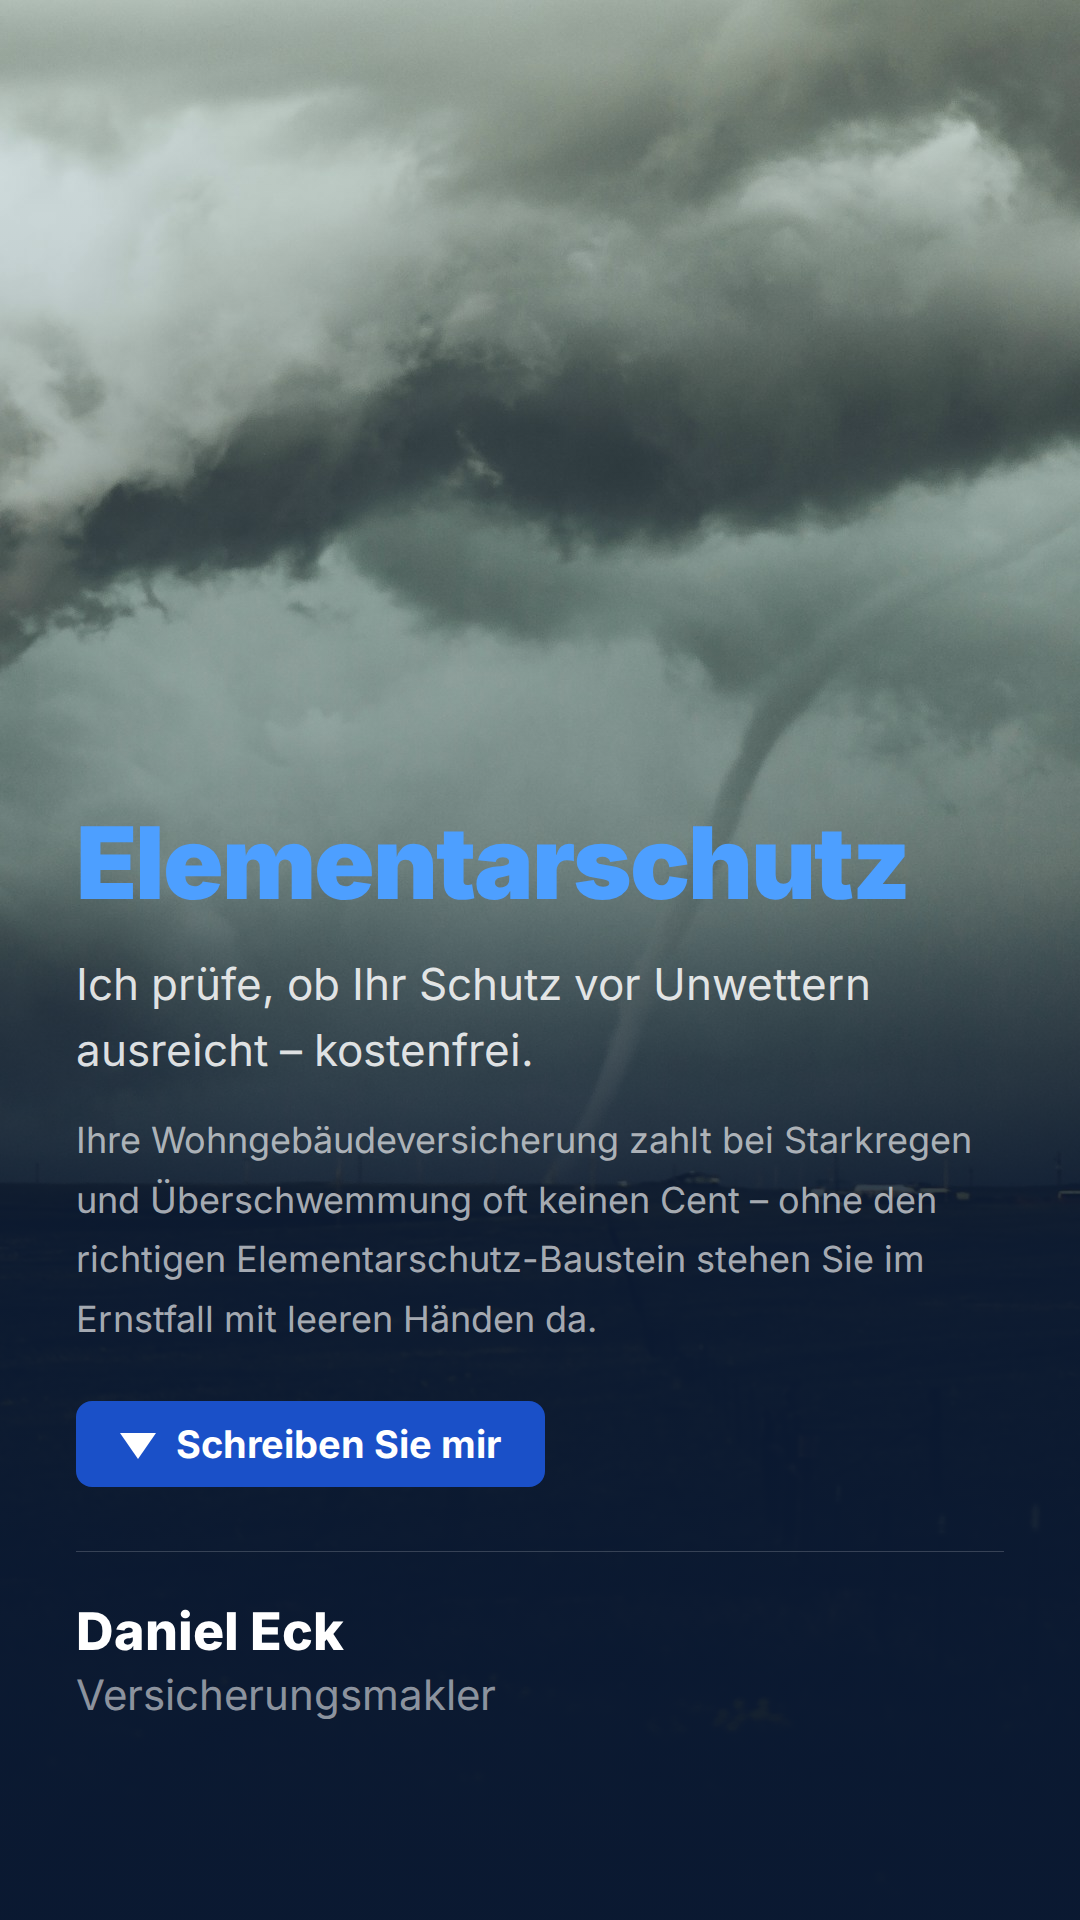
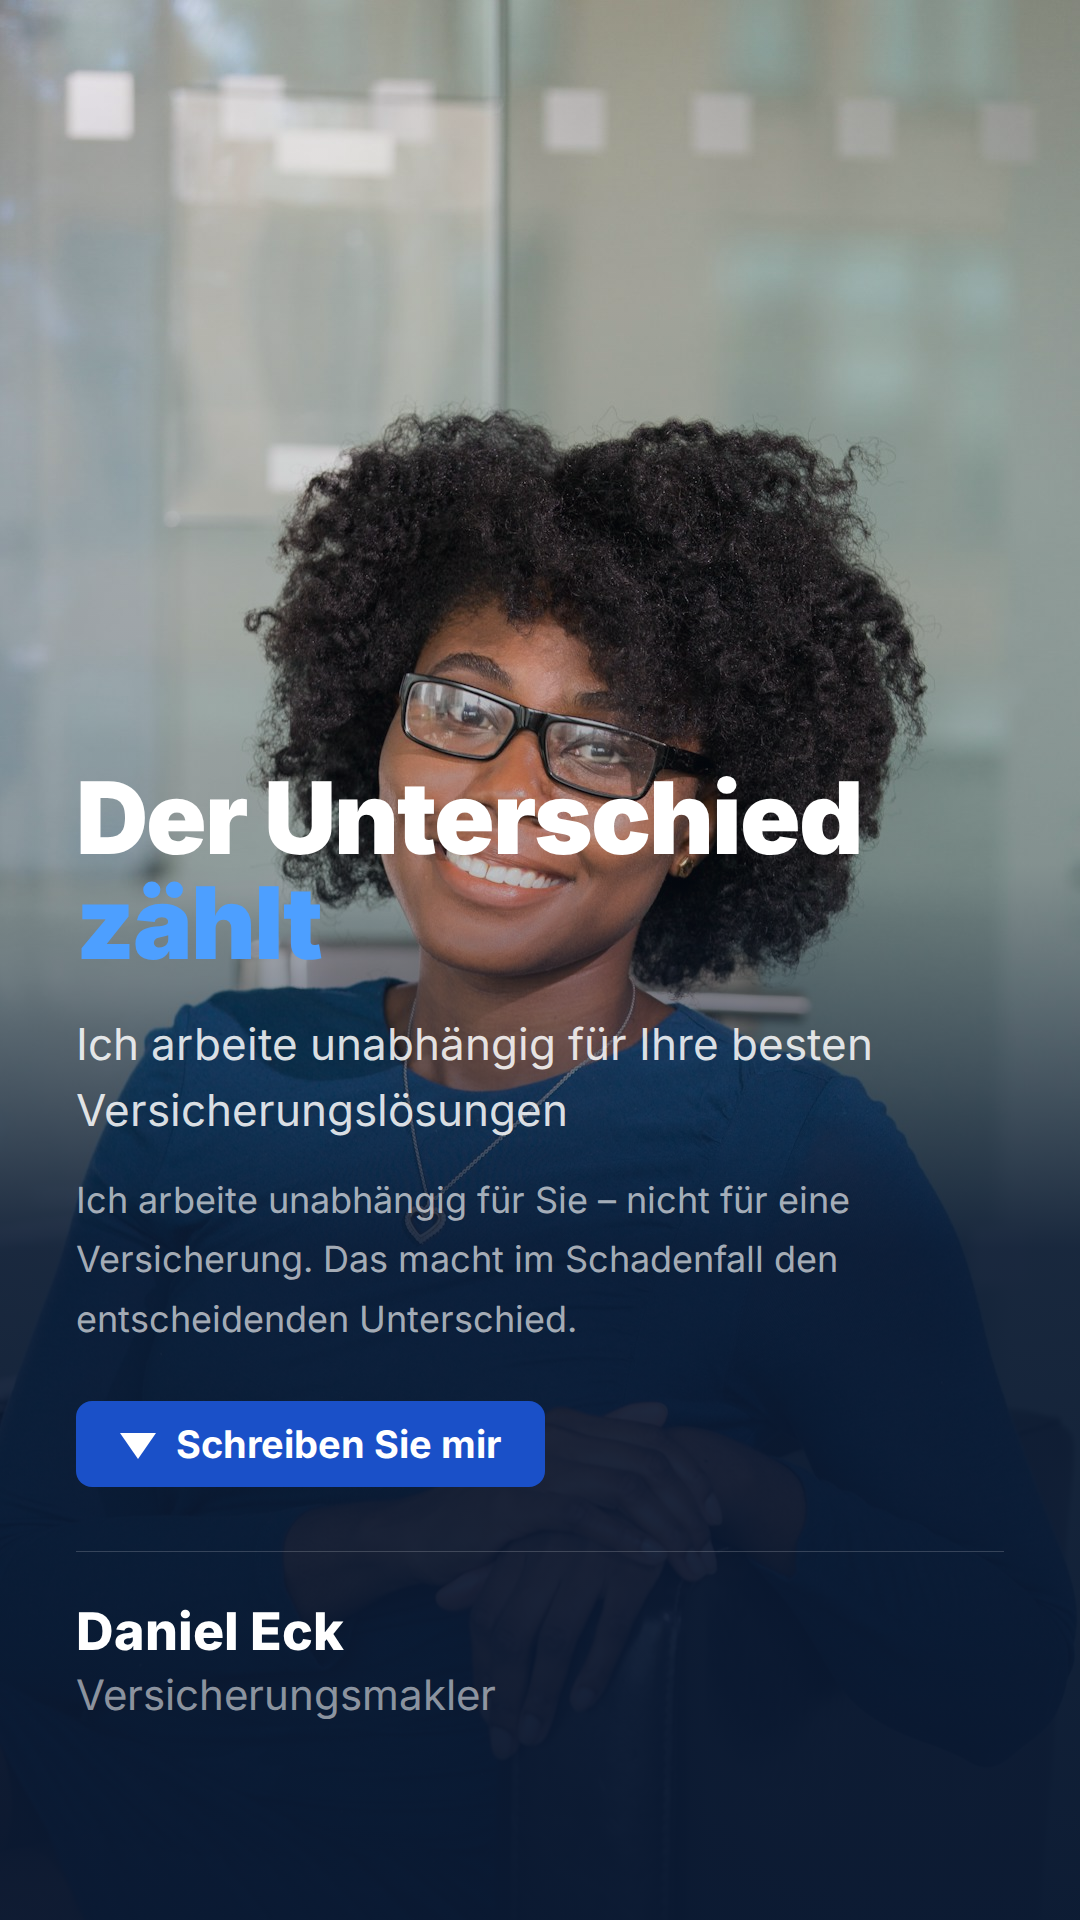
Blog-Entwurf: Unabhängiger Makler vs. Ausschließlichkeitsvertreter

diff --git a/blog/posts/2026-05-27-unabhängiger-makler-vs-ausschließlichkeitsvertreter.html b/blog/posts/2026-05-27-unabhängiger-makler-vs-ausschließlichkeitsvertreter.html
@@ -1,0 +1,347 @@
+<!DOCTYPE html>
+<html lang="de">
+<head>
+  <meta charset="UTF-8" />
+  <meta name="viewport" content="width=device-width, initial-scale=1.0" />
+  <title>Unabhängiger Makler vs. Ausschließlichkeitsvertreter – Daniel Eck – Versicherungsmakler</title>
+  <meta name="description" content="Unabhängiger Makler vs. Ausschließlichkeitsvertreter – Tipps und Informationen von Ihrem unabhängigen Versicherungsmakler Daniel Eck aus Schmalkalden." />
+  <meta property="og:title" content="Unabhängiger Makler vs. Ausschließlichkeitsvertreter" />
+  <meta property="og:description" content="Unabhängiger Makler vs. Ausschließlichkeitsvertreter – Tipps von Versicherungsmakler Daniel Eck aus Schmalkalden." />
+  <meta property="og:type" content="article" />
+  <meta property="og:url" content="https://kneipenterroristecky-cmd.github.io/Webseite_Eckversicherung/blog/posts/2026-05-27-unabhängiger-makler-vs-ausschließlichkeitsvertreter.html" />
+  <meta property="og:image" content="https://images.unsplash.com/photo-1573497161161-c3e73707e25c?w=1200&h=630&fit=crop&auto=format" />
+  <meta property="og:image:width" content="1200" />
+  <meta property="og:image:height" content="630" />
+  <meta property="og:site_name" content="Daniel Eck – Versicherungsmakler" />
+  <link rel="icon" type="image/svg+xml" href="../../favicon.svg" />
+  <link rel="stylesheet" href="../../style.css?v=5" />
+  <link rel="preconnect" href="https://fonts.googleapis.com" />
+  <link rel="preconnect" href="https://fonts.gstatic.com" crossorigin />
+  <link href="https://fonts.googleapis.com/css2?family=Inter:ital,wght@0,300;0,400;0,500;0,600;0,700;0,800;0,900;1,400&display=swap" rel="stylesheet" />
+  <link rel="stylesheet" href="https://cdnjs.cloudflare.com/ajax/libs/font-awesome/6.5.1/css/all.min.css" />
+  <style>
+    .page-hero {
+      background: var(--navy);
+      padding: 72px 0 64px;
+      text-align: center;
+      position: relative;
+      overflow: hidden;
+    }
+    .page-hero::before {
+      content: '';
+      position: absolute;
+      inset: 0;
+      background: linear-gradient(135deg, rgba(26,80,200,.25) 0%, transparent 60%);
+      pointer-events: none;
+    }
+    .page-hero-container {
+      max-width: 760px;
+      margin: 0 auto;
+      padding: 0 28px;
+      position: relative;
+      z-index: 1;
+    }
+    .page-hero-label {
+      display: inline-block;
+      font-size: 11px;
+      font-weight: 700;
+      letter-spacing: .12em;
+      text-transform: uppercase;
+      color: var(--blue-lt);
+      margin-bottom: 16px;
+    }
+    .page-hero-title {
+      font-size: clamp(24px, 5vw, 40px);
+      font-weight: 900;
+      color: #fff;
+      line-height: 1.2;
+      margin-bottom: 16px;
+      hyphens: auto;
+      overflow-wrap: break-word;
+    }
+    .page-hero-meta {
+      font-size: 14px;
+      color: rgba(255,255,255,.55);
+    }
+    .blog-content {
+      max-width: 740px;
+      margin: 0 auto;
+      padding: 56px 28px 80px;
+    }
+    .blog-content h2 {
+      font-size: 22px;
+      font-weight: 800;
+      color: var(--navy);
+      margin: 40px 0 12px;
+      line-height: 1.3;
+    }
+    .blog-content p {
+      font-size: 16px;
+      line-height: 1.8;
+      color: #374151;
+      margin-bottom: 18px;
+    }
+    .blog-content ul {
+      margin: 0 0 20px 0;
+      padding-left: 0;
+      list-style: none;
+    }
+    .blog-content ul li {
+      font-size: 16px;
+      line-height: 1.7;
+      color: #374151;
+      padding: 6px 0 6px 28px;
+      position: relative;
+    }
+    .blog-content ul li::before {
+      content: '';
+      position: absolute;
+      left: 0;
+      top: 14px;
+      width: 8px;
+      height: 8px;
+      border-radius: 50%;
+      background: var(--blue);
+    }
+    .blog-author-box {
+      display: flex;
+      align-items: center;
+      gap: 20px;
+      background: #f8faff;
+      border: 1px solid #e2e8f0;
+      border-radius: 16px;
+      padding: 24px 28px;
+      margin-top: 56px;
+    }
+    .blog-author-img {
+      width: 72px;
+      height: 72px;
+      border-radius: 50%;
+      object-fit: cover;
+      object-position: top;
+      flex-shrink: 0;
+    }
+    .blog-author-name {
+      font-weight: 800;
+      color: var(--navy);
+      font-size: 16px;
+      margin-bottom: 14px;
+    }
+    .blog-author-role {
+      font-size: 13px;
+      color: #64748b;
+      margin-bottom: 6px;
+    }
+    .blog-author-links {
+      display: flex;
+      gap: 16px;
+      flex-wrap: wrap;
+    }
+    .blog-author-links a {
+      font-size: 13px;
+      color: var(--blue);
+      font-weight: 600;
+      text-decoration: none;
+      display: inline-flex;
+      align-items: center;
+      gap: 6px;
+    }
+    .blog-back {
+      display: inline-flex;
+      align-items: center;
+      gap: 8px;
+      font-size: 14px;
+      font-weight: 600;
+      color: var(--blue);
+      text-decoration: none;
+      margin-bottom: 40px;
+    }
+    .blog-back:hover { opacity: .75; }
+    .blog-hero-img {
+      width: 100%;
+      max-height: 420px;
+      object-fit: cover;
+      border-radius: 12px;
+      margin-bottom: 36px;
+      display: block;
+    }
+    @media (max-width: 600px) {
+      .blog-author-box { flex-direction: column; text-align: center; padding: 20px 16px; }
+      .blog-author-links { flex-direction: column; align-items: center; gap: 10px; }
+      .blog-author-links a { justify-content: center; }
+    }
+    body.nav-open .social-peek { display: none !important; }
+  </style>
+</head>
+<body>
+
+  <!-- TOP BAR -->
+  <div class="topbar">
+    <div class="topbar-container">
+      <div class="topbar-right">
+<a href="tel:+491743225885"><i class="fas fa-phone"></i><span>0174 / 322 58 85</span></a>
+<a href="mailto:daniel@eckversicherung.de"><i class="fas fa-envelope"></i><span>daniel@eckversicherung.de</span></a>
+      </div>
+    </div>
+  </div>
+
+  <!-- NAVIGATION -->
+  <header class="navbar" id="navbar">
+    <div class="navbar-container">
+      <a href="../../start.html" class="logo">
+<img src="../../Logo Eck weis.png" alt="Daniel Eck Versicherungsmakler" class="logo-img" />
+<div class="logo-text">
+  <span class="logo-name" style="color: rgb(33, 103, 204)">Daniel Eck</span>
+  <span class="logo-subtitle">Versicherungsmakler</span>
+</div>
+      </a>
+      <nav class="nav-links" id="navLinks">
+<a href="../../private-versicherungen.html" class="nav-link">Private Versicherungen</a>
+<a href="../../gewerbliche-versicherungen.html" class="nav-link">Gewerbliche Versicherungen</a>
+<a href="../../start.html#team" class="nav-link">Über uns</a>
+<a href="../../faq.html" class="nav-link">FAQ</a>
+<a href="../../blog/index.html" class="nav-link">Ratgeber &amp; Tipps</a>
+<a href="../../onlineabschluss.html" class="btn btn-nav btn-online-abschluss"><i class="fas fa-laptop"></i> Onlineabschluss</a>
+<a href="../../start.html#termin" class="btn btn-nav" style="background-color: rgb(33, 103, 204)">Termin buchen</a>
+      </nav>
+      <button class="hamburger" id="hamburger" aria-label="Menü">
+<span></span><span></span><span></span>
+      </button>
+    </div>
+  </header>
+
+  <!-- HERO -->
+  <section class="page-hero">
+    <div class="page-hero-container">
+      <span class="page-hero-label">Blog</span>
+      <h1 class="page-hero-title">Unabhängiger Makler vs. Ausschließlichkeitsvertreter</h1>
+      <p class="page-hero-meta"><i class="fas fa-calendar-alt" style="margin-right:6px"></i>27.05.2026 &nbsp;·&nbsp; Daniel Eck, Versicherungsmakler</p>
+    </div>
+  </section>
+
+  <!-- INHALT -->
+  <div class="blog-content">
+
+    <a href="../index.html" class="blog-back">
+      <i class="fas fa-arrow-left"></i> Alle Beiträge
+    </a>
+
+    <img src="https://images.unsplash.com/photo-1573497161161-c3e73707e25c?w=1200&h=630&fit=crop&auto=format" alt="Unabhängiger Makler vs. Ausschließlichkeitsvertreter" class="blog-hero-img" />
+
+    <p>Wenn Sie eine Versicherung abschließen, sitzt Ihnen entweder ein Vertreter oder ein Makler gegenüber. Klingt erstmal gleich – ist es aber nicht. Der Unterschied kann Sie im Ernstfall bares Geld kosten.</p>
+
+<h2>Was ein Ausschließlichkeitsvertreter wirklich ist</h2>
+
+<p>Ein Ausschließlichkeitsvertreter arbeitet für EINE Versicherungsgesellschaft. Er verkauft deren Produkte – und nur die. Das ist sein Job, dafür wird er bezahlt. Ob der Tarif zu Ihnen passt oder ob es woanders bessere Konditionen gibt? Das kann er Ihnen schlicht nicht sagen, weil er den Markt gar nicht kennen darf.</p>
+
+<p>Das ist nicht böse gemeint – der Vertreter macht seinen Job. Aber sein Auftraggeber ist die Versicherung, nicht Sie. Im Schadenfall vertritt er rechtlich gesehen die Interessen seines Arbeitgebers.</p>
+
+<h2>Was ich als unabhängiger Makler anders mache</h2>
+
+<p>Ich bin an keine Gesellschaft gebunden. Wenn ich für Sie einen Tarif suche, schaue ich mir den gesamten Markt an – dutzende Anbieter, hunderte Tarife. Ich arbeite in Ihrem Auftrag, nicht im Auftrag einer Versicherung. Das ist ein gewaltiger Unterschied.</p>
+
+<p>Im Schadenfall stehe ich auf Ihrer Seite. Ich setze mich mit der Versicherung auseinander, nicht mit Ihnen. Wenn ein Anbieter nicht zahlen will, kämpfe ich für Sie – weil das mein Job ist.</p>
+
+<h2>Warum das im Alltag zählt</h2>
+
+<p>Ein Beispiel: Bei der Berufsunfähigkeitsversicherung liegen die Beiträge für denselben Schutz je nach Anbieter bis zu 50 Prozent auseinander. Ein Vertreter kann Ihnen nur seinen einen Tarif anbieten. Ich prüfe für Sie, welcher Anbieter das beste Preis-Leistungs-Verhältnis hat.</p>
+
+<p>Gleiches gilt bei Schäden: Manche Gesellschaften regulieren schnell und fair, andere mauern. Das weiß ich aus der täglichen Praxis – und diese Erfahrung fließt in meine Empfehlungen ein.</p>
+
+<h2>Das prüfe ich für Sie bei jedem Vertrag:</h2>
+
+<ul>
+<li>Passt der Tarif wirklich zu Ihrer Lebenssituation?</li>
+<li>Gibt es am Markt bessere Alternativen zum gleichen Preis?</li>
+<li>Wie verhält sich der Anbieter erfahrungsgemäß im Schadenfall?</li>
+<li>Welche Klauseln im Kleingedruckten können zum Problem werden?</li>
+<li>Lässt sich durch einen Wechsel Geld sparen – ohne Leistung zu verlieren?</li>
+<li>Sind Ihre bestehenden Verträge noch zeitgemäß oder längst veraltet?</li>
+</ul>
+
+<p>Unabhängige Beratung kostet Sie übrigens nicht mehr – ich werde von der Versicherung bezahlt, die Sie am Ende wählen. Wenn Sie wissen wollen, ob Ihre aktuellen Verträge wirklich zu Ihnen passen, schaue ich das gerne gemeinsam mit Ihnen durch.</p>
+
+    <!-- Autor-Box -->
+    <div class="blog-author-box">
+      <img src="../../Dummybild 1.png" alt="Daniel Eck" class="blog-author-img" />
+      <div>
+<div class="blog-author-name">Daniel Eck</div>
+
+<div class="blog-author-links">
+  <a href="tel:+491743225885"><i class="fas fa-phone"></i> 0174 / 322 58 85</a>
+  <a href="mailto:daniel@eckversicherung.de"><i class="fas fa-envelope"></i> E-Mail schreiben</a>
+  <a href="../../start.html#termin"><i class="fas fa-calendar-check"></i> Termin buchen</a>
+</div>
+      </div>
+    </div>
+
+  </div>
+
+  <!-- FOOTER -->
+  <footer class="footer" id="kontakt">
+    <div class="footer-grid">
+      <div class="footer-brand">
+<a href="../../start.html" class="logo footer-logo">
+  <div class="footer-logo-bracket"></div>
+  <div class="logo-text">
+    <span class="logo-name">Daniel Eck</span>
+    <span class="logo-subtitle">Versicherungsmakler</span>
+  </div>
+</a>
+<p>Unabhängige Versicherungsberatung in 3. Generation. Persönlich, transparent und immer in Ihrem Interesse.</p><div class="footer-social">  <a href="https://www.facebook.com/profile.php?id=61565584784878" target="_blank" rel="noopener" class="footer-social-btn fsb-fb" aria-label="Facebook"><i class="fab fa-facebook-f"></i></a>  <a href="https://www.instagram.com/daniel.eck.versicherungsmakler/" target="_blank" rel="noopener" class="footer-social-btn fsb-ig" aria-label="Instagram"><i class="fab fa-instagram"></i></a></div>
+      </div>
+      <div class="footer-col">
+<h4>Navigation</h4>
+<ul>
+  <li><a href="../../start.html#leistungen">Leistungen</a></li>
+  <li><a href="../../start.html#team">Über uns</a></li>
+  <li><a href="../../private-versicherungen.html">Private Versicherungen</a></li>
+  <li><a href="../../gewerbliche-versicherungen.html">Gewerbliche Versicherungen</a></li>
+  <li><a href="../../faq.html">FAQ</a></li>
+  <li><a href="../../kontakt.html">Kontakt</a></li>
+</ul>
+      </div>
+      <div class="footer-col">
+<h4>Kontakt</h4>
+<ul class="footer-contact-list">
+  <li><i class="fas fa-phone"></i><a href="tel:+491743225885">0174 / 322 58 85</a></li>
+  <li><i class="fas fa-envelope"></i><a href="mailto:daniel@eckversicherung.de">daniel@eckversicherung.de</a></li>
+  <li><i class="fas fa-location-dot"></i><a href="https://www.google.com/maps/place/Talstra%C3%9Fe+73,+98574+Schmalkalden" target="_blank">Talstraße 73<br />98574 Schmalkalden</a></li>
+</ul>
+      </div>
+      <div class="footer-col">
+<h4>Schadenhotline</h4>
+<a href="tel:+491743225885" class="schadenhotline-box" style="background-color: rgb(33, 103, 204)">
+  <i class="fas fa-phone"></i>
+  <div>
+    <span class="sh-number">0174 / 322 58 85</span>
+    <span class="sh-label">Im Schadensfall sofort anrufen</span>
+  </div>
+</a>
+      </div>
+    </div>
+    <div class="footer-bottom">
+      <p>© 2026 Daniel Eck – Versicherungsmakler. Alle Rechte vorbehalten.</p>
+      <div class="footer-bottom-links">
+<a href="../../datenschutz.html">Datenschutz</a>
+<a href="../../impressum.html">Impressum</a>
+<a href="../../erstinformation.html">Erstinformation</a>
+      </div>
+    </div>
+  </footer>
+
+  <script src="../../script.js?v=8"></script>
+  <script src="../../cookie.js"></script>
+  <div class="mobile-cta-bar">
+    <a href="tel:+491743225885" class="mobile-cta-call"><i class="fas fa-phone"></i><span>Anrufen</span></a>
+    <a href="../../kontakt.html" class="mobile-cta-termin"><i class="fas fa-calendar-check"></i><span>Termin buchen</span></a>
+  </div>
+
+  <!-- Social Peek (Mobile) -->
+  <div class="social-peek" id="socialPeek">
+    <a href="https://www.facebook.com/profile.php?id=61565584784878" target="_blank" rel="noopener" class="social-peek-btn social-peek-fb" aria-label="Facebook"><span class="social-peek-tooltip">Auf Facebook folgen<span class="social-peek-tooltip-arrow"></span></span><i class="fab fa-facebook-f"></i></a>
+    <a href="https://www.instagram.com/daniel.eck.versicherungsmakler/" target="_blank" rel="noopener" class="social-peek-btn social-peek-ig" aria-label="Instagram"><span class="social-peek-tooltip">Auf Instagram folgen<span class="social-peek-tooltip-arrow"></span></span><i class="fab fa-instagram"></i></a>
+    <a href="https://wa.me/491743225885" target="_blank" rel="noopener" class="social-peek-btn social-peek-wa" aria-label="WhatsApp"><span class="social-peek-tooltip">WhatsApp schreiben<span class="social-peek-tooltip-arrow"></span></span><i class="fab fa-whatsapp"></i></a>
+  </div>
+</body>
+</html>

diff --git a/social/latest-ig-heiko.html b/social/latest-ig-heiko.html
@@ -23,12 +23,12 @@
 </head>
 <body>
 <div class="wrap">
-  <img class="bg-img" src="https://images.unsplash.com/photo-1527482937786-6608f6e14c15?w=1080&h=1920&fit=crop&crop=focalpoint&fp-x=0.5&fp-y=0.35&auto=format" />
+  <img class="bg-img" src="https://images.unsplash.com/photo-1573497161161-c3e73707e25c?w=1080&h=1920&fit=crop&crop=focalpoint&fp-x=0.5&fp-y=0.35&auto=format" />
   <div class="overlay"></div>
   <div class="content">
-    <h1><span>Elementarschutz</span></h1>
-    <p class="sub">Ich prüfe, ob Ihr Schutz vor Unwettern ausreicht – kostenfrei.</p>
-    <p class="body">Ihre Wohngebäudeversicherung zahlt bei Starkregen und Überschwemmung oft keinen Cent – ohne den richtigen Elementarschutz-Baustein stehen Sie im Ernstfall mit leeren Händen da.</p>
+    <h1>Der Unterschied<br><span>zählt</span></h1>
+    <p class="sub">Ich arbeite unabhängig für Ihre besten Versicherungslösungen</p>
+    <p class="body">Ich arbeite unabhängig für Sie – nicht für eine Versicherung. Das macht im Schadenfall den entscheidenden Unterschied.</p>
     <div class="cta"><span class="cta-arrow"></span> Schreiben Sie mir</div>
     <div class="divider"></div>
     <div class="branding">

diff --git a/social/latest-ig.html b/social/latest-ig.html
@@ -23,12 +23,12 @@
 </head>
 <body>
 <div class="wrap">
-  <img class="bg-img" src="https://images.unsplash.com/photo-1527482937786-6608f6e14c15?w=1080&h=1920&fit=crop&crop=focalpoint&fp-x=0.5&fp-y=0.35&auto=format" />
+  <img class="bg-img" src="https://images.unsplash.com/photo-1573497161161-c3e73707e25c?w=1080&h=1920&fit=crop&crop=focalpoint&fp-x=0.5&fp-y=0.35&auto=format" />
   <div class="overlay"></div>
   <div class="content">
-    <h1><span>Elementarschutz</span></h1>
-    <p class="sub">Ich prüfe, ob Ihr Schutz vor Unwettern ausreicht – kostenfrei.</p>
-    <p class="body">Ihre Wohngebäudeversicherung zahlt bei Starkregen und Überschwemmung oft keinen Cent – ohne den richtigen Elementarschutz-Baustein stehen Sie im Ernstfall mit leeren Händen da.</p>
+    <h1>Der Unterschied<br><span>zählt</span></h1>
+    <p class="sub">Ich arbeite unabhängig für Ihre besten Versicherungslösungen</p>
+    <p class="body">Ich arbeite unabhängig für Sie – nicht für eine Versicherung. Das macht im Schadenfall den entscheidenden Unterschied.</p>
     <div class="cta"><span class="cta-arrow"></span> Schreiben Sie mir</div>
     <div class="divider"></div>
     <div class="branding">
